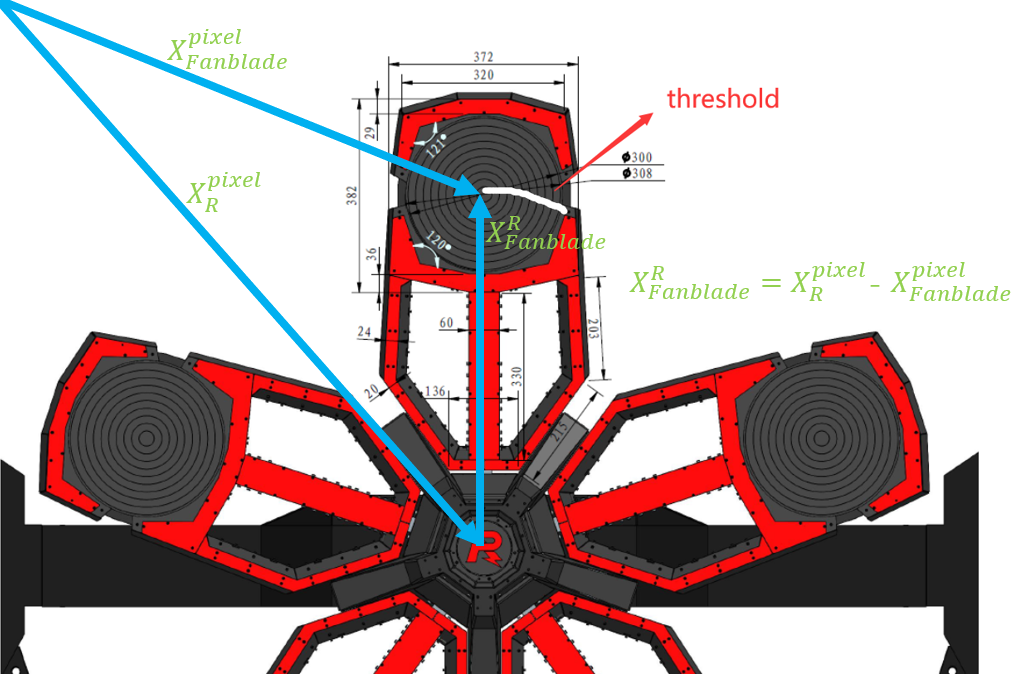
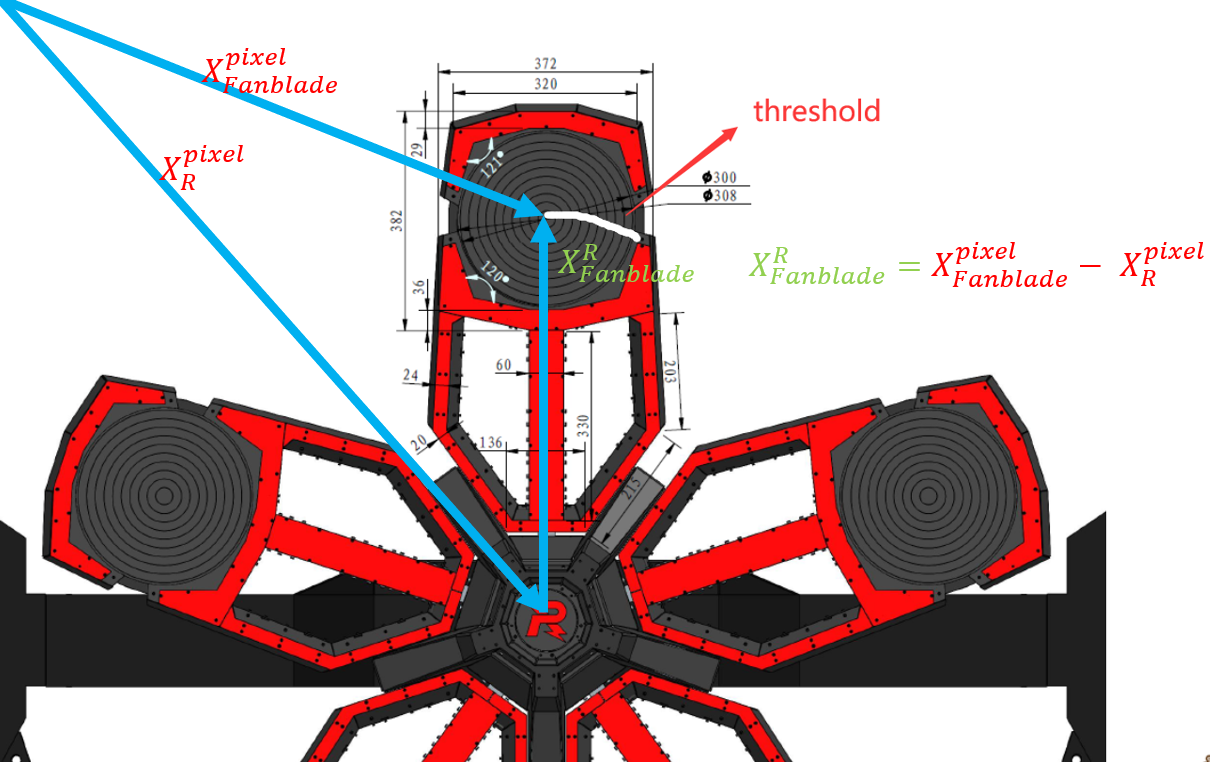
FXL

diff --git a/predict.md b/predict.md
@@ -38,8 +38,10 @@ $$
 
 
 $$
-X_{Fanblade}^{R} = X_{R}^{pixel}-X^{pixel}_{Fanblade}
+X_{Fanblade}^{R} = X_{Fanblade}^{pixel}-X^{pixel}_{R}
 $$
+
+
 $X_{Fanblade}^{R}、X_{R}^{pixel}、X^{pixel}_{Fanblade}$分别指的是：扇叶在R坐标系下的坐标，中心R在像素坐标下的值、扇叶像素坐标下的值
 
 
@@ -80,7 +82,7 @@ $$
 
 
 
-<img src="doc/image_2_2.png" alt="image_2" style="zoom:50%;" />
+<img src="doc/image_2_2.png" alt="image_2" style="zoom:;" />
 
 
 
